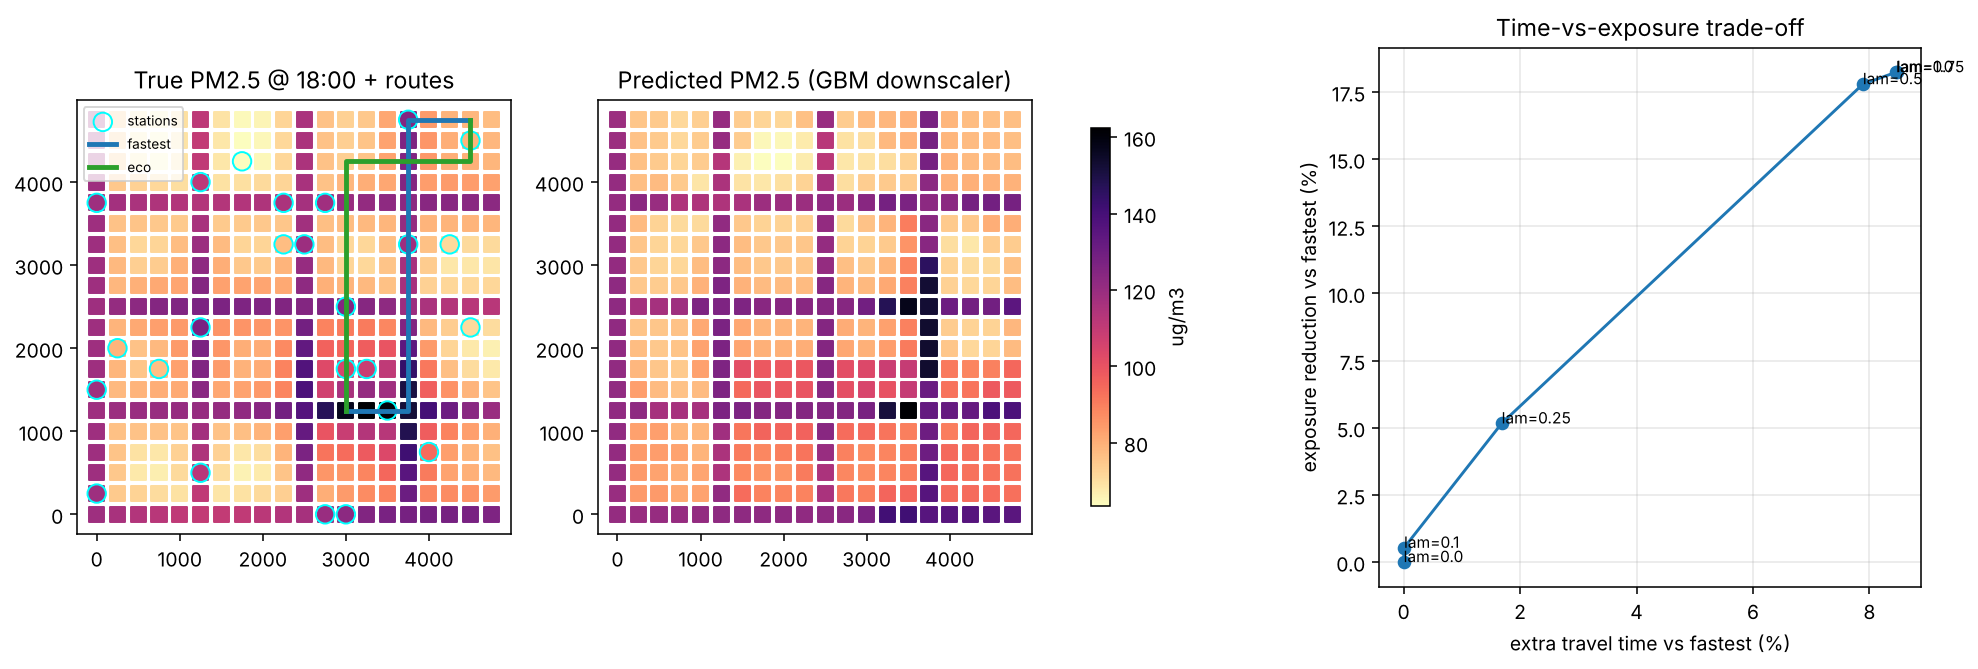
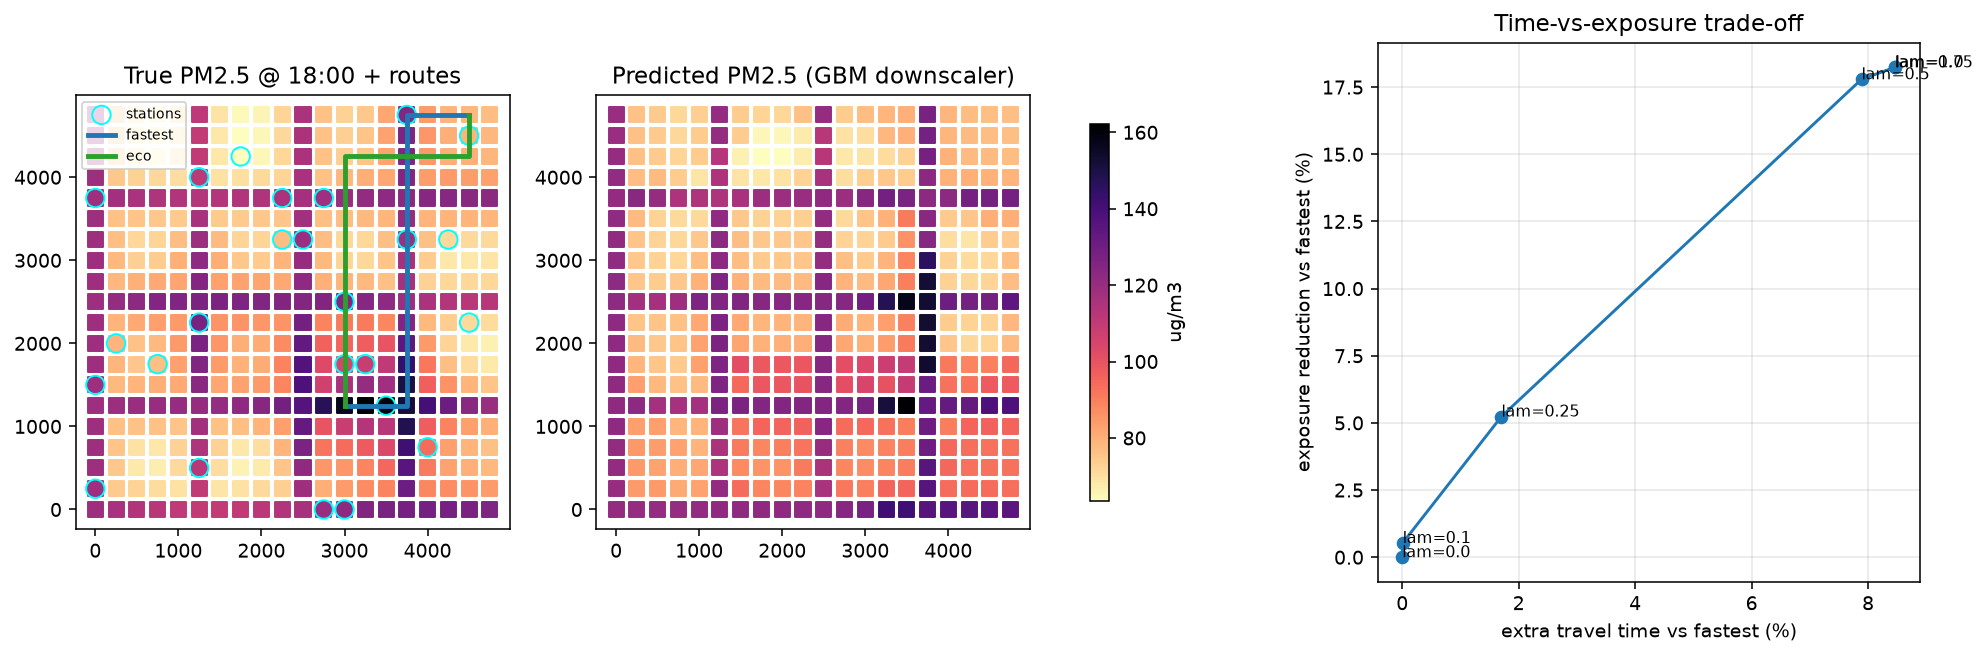
style: fix ruff lint errors

diff --git a/src/ecoroute/viz.py b/src/ecoroute/viz.py
@@ -11,11 +11,22 @@ def _field_map(ax, G, pm, title, stations=None, routes=None):
     ys = [G.nodes[n]["y"] for n in G.nodes]
     sc = ax.scatter(xs, ys, c=[pm[n] for n in G.nodes], cmap="magma_r", s=60, marker="s")
     if stations:
-        ax.scatter([G.nodes[s]["x"] for s in stations], [G.nodes[s]["y"] for s in stations],
-                   facecolors="none", edgecolors="cyan", s=90, label="stations")
+        ax.scatter(
+            [G.nodes[s]["x"] for s in stations],
+            [G.nodes[s]["y"] for s in stations],
+            facecolors="none",
+            edgecolors="cyan",
+            s=90,
+            label="stations",
+        )
     for path, color, label in routes or []:
-        ax.plot([G.nodes[n]["x"] for n in path], [G.nodes[n]["y"] for n in path],
-                color=color, lw=2.5, label=label)
+        ax.plot(
+            [G.nodes[n]["x"] for n in path],
+            [G.nodes[n]["y"] for n in path],
+            color=color,
+            lw=2.5,
+            label=label,
+        )
     ax.set_title(title)
     ax.set_aspect("equal")
     if stations or routes:
@@ -25,14 +36,21 @@ def _field_map(ax, G, pm, title, stations=None, routes=None):
 
 def plot_experiment(exp, path: str, hour: int) -> None:
     fig, axes = plt.subplots(1, 3, figsize=(17, 5))
-    routes = [(exp.example["fastest"], "tab:blue", "fastest"), (exp.example["eco"], "tab:green", "eco")]
-    sc = _field_map(axes[0], exp.G, exp.pm_true, f"True PM2.5 @ {hour}:00 + routes", exp.stations, routes)
+    routes = [
+        (exp.example["fastest"], "tab:blue", "fastest"),
+        (exp.example["eco"], "tab:green", "eco"),
+    ]
+    sc = _field_map(
+        axes[0], exp.G, exp.pm_true, f"True PM2.5 @ {hour}:00 + routes", exp.stations, routes
+    )
     _field_map(axes[1], exp.G, exp.pm_pred, "Predicted PM2.5 (GBM downscaler)")
     fig.colorbar(sc, ax=axes[:2], shrink=0.7, label="ug/m3")
     s = exp.sweep
     axes[2].plot(s["extra_time_%"], -s["exposure_change_%"], "o-")
     for _, r in s.iterrows():
-        axes[2].annotate(f"lam={r['lam']}", (r["extra_time_%"], -r["exposure_change_%"]), fontsize=8)
+        axes[2].annotate(
+            f"lam={r['lam']}", (r["extra_time_%"], -r["exposure_change_%"]), fontsize=8
+        )
     axes[2].set_xlabel("extra travel time vs fastest (%)")
     axes[2].set_ylabel("exposure reduction vs fastest (%)")
     axes[2].set_title("Time-vs-exposure trade-off")

diff --git a/src/ecoroute/evaluate.py b/src/ecoroute/evaluate.py
@@ -46,8 +46,14 @@ def sample_trips(G, n: int, rng: np.random.Generator, min_hops: int = 10):
     return trips
 
 
-def run(seed: int = 0, trips: int = 300, hour: int = 18, lam: float = 0.5,
-        n_stations: int = 25, grid: int = 20) -> Experiment:
+def run(
+    seed: int = 0,
+    trips: int = 300,
+    hour: int = 18,
+    lam: float = 0.5,
+    n_stations: int = 25,
+    grid: int = 20,
+) -> Experiment:
     rng = np.random.default_rng(seed)
     G = build_city(n=grid)
     stations = pick_stations(G, n_stations, rng)
@@ -65,22 +71,27 @@ def run(seed: int = 0, trips: int = 300, hour: int = 18, lam: float = 0.5,
     od = sample_trips(G, trips, rng)
     fastest = {t: planner.evaluate(planner.plan(*t, 0.0, pm_pred), pm_true) for t in od}
 
-    def compare(l: float, pm_plan) -> dict:
+    def compare(lam_val: float, pm_plan) -> dict:
         dt, dx, changed = [], [], 0
         for t in od:
-            r = planner.evaluate(planner.plan(*t, l, pm_plan), pm_true)
+            r = planner.evaluate(planner.plan(*t, lam_val, pm_plan), pm_true)
             f = fastest[t]
             dt.append(100 * (r.time_min - f.time_min) / f.time_min)
             dx.append(100 * (r.exposure - f.exposure) / f.exposure)
             changed += r.path != f.path
-        return {"extra_time_%": np.mean(dt), "exposure_change_%": np.mean(dx),
-                "routes_changed_%": 100 * changed / len(od)}
+        return {
+            "extra_time_%": np.mean(dt),
+            "exposure_change_%": np.mean(dx),
+            "routes_changed_%": 100 * changed / len(od),
+        }
 
     lams = [0.0, 0.1, 0.25, 0.5, 0.75, 1.0]
-    sweep = pd.DataFrame([{"lam": l, **compare(l, pm_pred)} for l in lams])
+    sweep = pd.DataFrame([{"lam": v, **compare(v, pm_pred)} for v in lams])
     summary = pd.DataFrame(
-        [{"planner": "eco (predicted PM2.5)", **compare(lam, pm_pred)},
-         {"planner": "eco (oracle PM2.5)", **compare(lam, pm_true)}]
+        [
+            {"planner": "eco (predicted PM2.5)", **compare(lam, pm_pred)},
+            {"planner": "eco (oracle PM2.5)", **compare(lam, pm_true)},
+        ]
     )
     t0 = od[0]
     example = {

diff --git a/src/ecoroute/forecast/downscale.py b/src/ecoroute/forecast/downscale.py
@@ -72,9 +72,13 @@ def leave_one_station_out(df: pd.DataFrame, test_days_from: int, seed: int = 0) 
         for (day, hour), idx in held.groupby(["day", "hour"]).groups.items():
             obs = df[(df["station"] != s) & (df["day"] == day) & (df["hour"] == hour)]
             pred_idw[held.index.get_indexer(idx)] = idw_predict(
-                obs[["x", "y"]].to_numpy(), obs["pm25"].to_numpy(), held.loc[idx, ["x", "y"]].to_numpy()
+                obs[["x", "y"]].to_numpy(),
+                obs["pm25"].to_numpy(),
+                held.loc[idx, ["x", "y"]].to_numpy(),
             )
         y = held["pm25"].to_numpy()
         for name, p in [("gbm", pred_gbm), ("idw", pred_idw), ("regional_mean", pred_reg)]:
-            rows.append({"station": s, "model": name, "rmse": float(np.sqrt(np.mean((y - p) ** 2)))})
+            rows.append(
+                {"station": s, "model": name, "rmse": float(np.sqrt(np.mean((y - p) ** 2)))}
+            )
     return pd.DataFrame(rows)

diff --git a/src/ecoroute/routing/planner.py b/src/ecoroute/routing/planner.py
@@ -19,7 +19,9 @@ BREATHING_FACTOR = 1.0  # placeholder: scale by activity (cycling/riding ~2-3x r
 
 
 def edge_time_s(e: dict, hour: float) -> float:
-    speed = SPEED_KMH[e["road_class"]] * (1 - CONGESTION_LOSS[e["road_class"]] * rush_intensity(hour))
+    speed = SPEED_KMH[e["road_class"]] * (
+        1 - CONGESTION_LOSS[e["road_class"]] * rush_intensity(hour)
+    )
     return e["length_m"] / (speed / 3.6)
 
 
@@ -45,7 +47,9 @@ class Planner:
         key = id(pm)
         if key not in self._e0_cache:
             self._e0_cache[key] = float(
-                np.mean([edge_exposure(e, pm, u, v, self.hour) for u, v, e in self.G.edges(data=True)])
+                np.mean(
+                    [edge_exposure(e, pm, u, v, self.hour) for u, v, e in self.G.edges(data=True)]
+                )
             )
         return self._e0_cache[key]
 

diff --git a/src/ecoroute/data/synthetic.py b/src/ecoroute/data/synthetic.py
@@ -31,7 +31,7 @@ def build_city(n: int = 20, spacing_m: float = 250.0) -> nx.Graph:
     G = nx.convert_node_labels_to_integers(G, label_attribute="ij")
     extent = (n - 1) * spacing_m
     art_coords = np.arange(0, n, ARTERIAL_EVERY) * spacing_m
-    for node, d in G.nodes(data=True):
+    for _node, d in G.nodes(data=True):
         i, j = d["ij"]
         x, y = i * spacing_m, j * spacing_m
         d["x"], d["y"] = x, y
